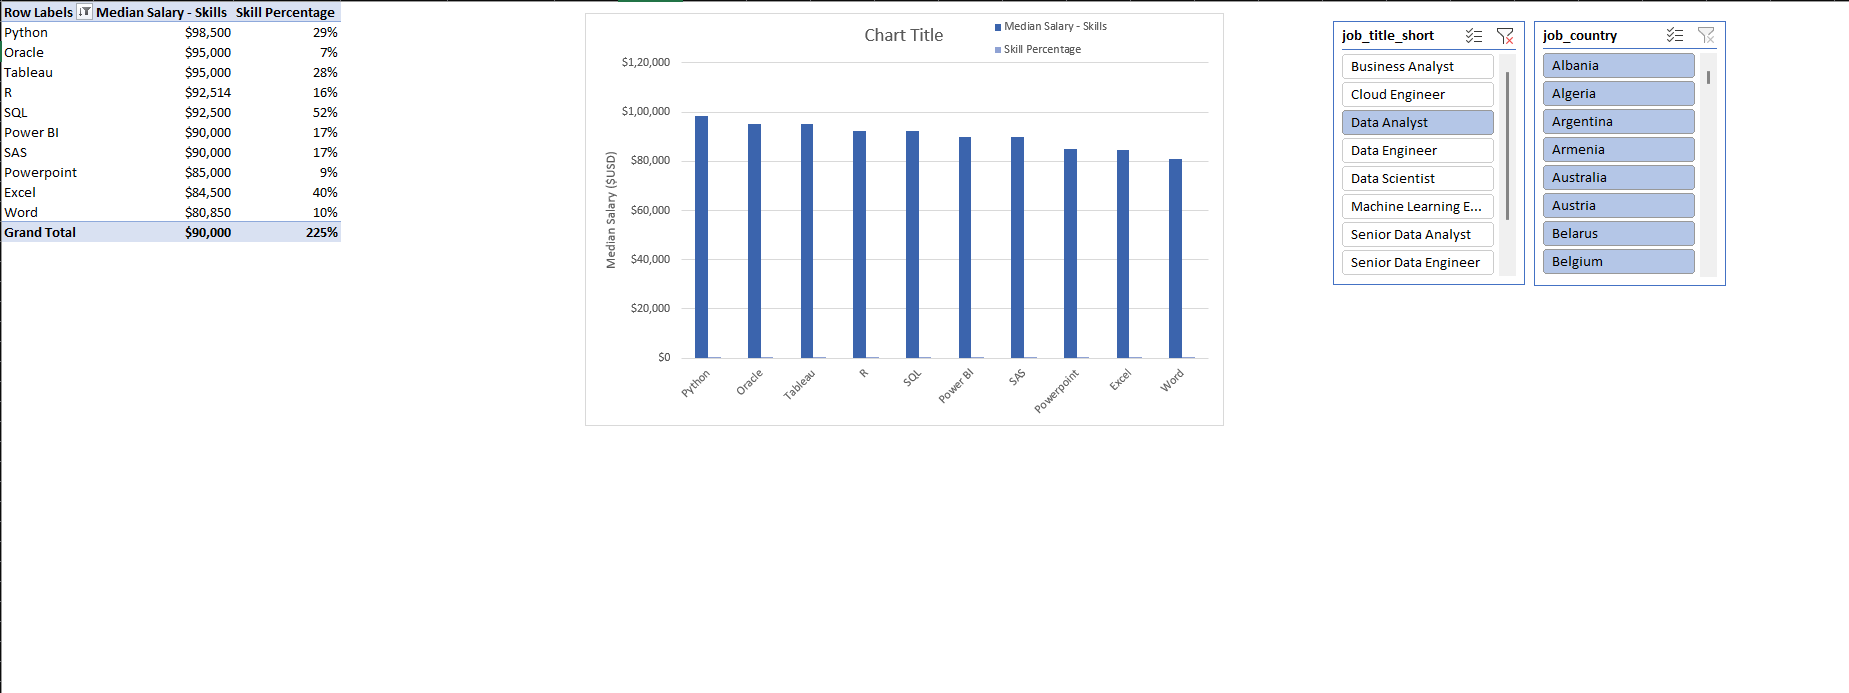
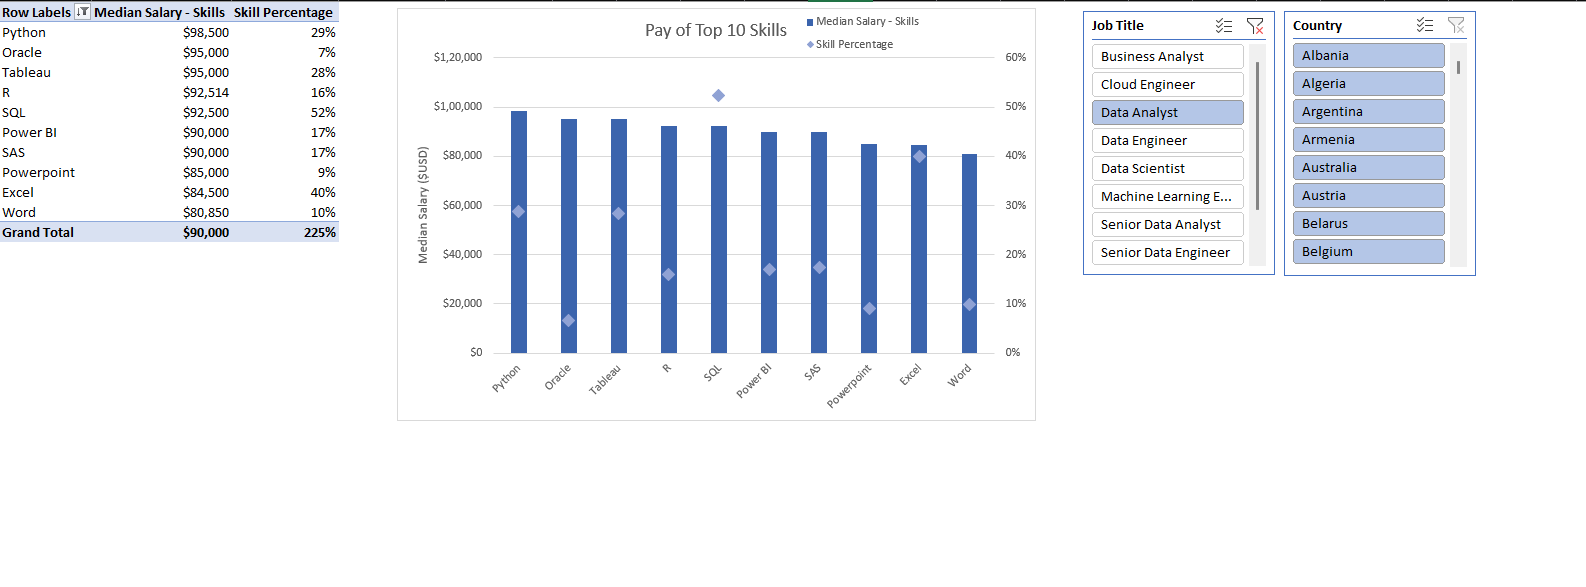
updated files

diff --git a/Analysis/README.md b/Analysis/README.md
@@ -1,0 +1,133 @@
+# Data Science Salary & Skills Analysis (Excel)
+
+An end-to-end Excel analytics project exploring **999+ real-world data science job postings** — built entirely with **Power Query**, **Power Pivot**, and **DAX** to answer the questions every job seeker actually cares about: *where does the money go, and what skills get me there?*
+
+---
+
+## 🎯 Project Goals
+
+Most "what skills should I learn" advice is anecdotal. This project answers it with data, by digging into four questions:
+
+1. How much more do US-based data roles pay compared to the rest of the world?
+2. Which skills are most in-demand for each job title and country?
+3. Which individual skills are associated with the highest pay — and is demand the same thing as value?
+4. Does knowing more skills actually translate into a bigger paycheck?
+
+---
+
+## 🛠️ Tools & Techniques
+
+- **Power Query (M)** — ETL pipeline: cleaning, reshaping, and unpivoting raw job posting data
+- **Power Pivot** — relational data model linking job postings to individual skills
+- **DAX** — custom measures for medians, ratios, and cross-table calculations
+- **CROSSFILTER** — bidirectional filtering to solve a real data-modeling problem (see below)
+- **PivotTables & PivotCharts** — interactive, filterable dashboards
+
+---
+
+## ⚙️ Data Model
+
+![Power Pivot Model](/Assets/Analysis/power_pivot.gif)
+
+Two tables, connected via a **one-to-many relationship on `job_id`**:
+
+### `data_jobs_salary` — 999+ rows × 19 columns
+One row per job posting. Built with Power Query:
+
+- Stripped the `"via "` prefix from job platform names for cleaner labels
+- Extracted the posting month from the full date
+- Converted hourly rates to annual equivalents (`salary_hour_avg × 2080`) so hourly and salaried roles are comparable
+- Added a unique `job_id` (starting at 10001) to act as the relationship key
+- Reordered columns for readability
+
+```
+M Code excerpt:
+#"adjusted hourly salary to yearly" = Table.AddColumn(#"Inserted Month",
+    "adjusted_hourly_salary", each [salary_hour_avg] * 2080, Currency.Type)
+```
+
+### `data_jobs_skills` — exploded skill-level table
+Sourced from `data_jobs_salary`, transformed into **one row per skill per job**:
+
+- Stripped Python-style list formatting (`[`, `]`, `'`) left over from the source data
+- Split the comma-delimited skill list into separate columns
+- **Unpivoted** into a long, one-skill-per-row format — the key step that makes skill-level analysis possible
+- Trimmed whitespace and standardized casing
+- Fixed acronym capitalization (SQL, AWS, Power BI, NoSQL, GCP, SAS) so "sql" and "SQL" aren't treated as different skills
+
+---
+
+## 🧮 DAX Measures
+
+**On `data_jobs_salary`:**
+```dax
+Job Count            = DISTINCTCOUNT(data_jobs_salary[job_id])
+Median Salary        = MEDIAN(data_jobs_salary[salary_year_avg])
+Median Salary US     = CALCULATE([Median Salary], data_jobs_salary[job_country] = "United States")
+Median Salary Non US = CALCULATE([Median Salary], data_jobs_salary[job_country] <> "United States")
+```
+
+**On `data_jobs_skills`:**
+```dax
+Skills Count           = COUNT(data_jobs_skills[job_skills])
+Skills Per Job         = DIVIDE([Skills Count], [Job Count])
+Skill Percentage       = DIVIDE([Skills Count], [Job Count])
+Median Salary - Skills = CALCULATE([Median Salary], CROSSFILTER(data_jobs_salary[job_id], data_jobs_skills[job_id], Both))
+```
+
+> 💡 **The CROSSFILTER problem:** Power Pivot relationships are one-directional by default, so filtering by a *skill* (in the skills table) couldn't naturally filter the *salary* (in the salary table). I solved this by wrapping the median salary calculation in `CROSSFILTER(..., Both)`, enabling bidirectional filtering on demand without permanently changing the relationship — a small detail that made every skill-level salary chart possible.
+
+---
+
+## 📊 Findings
+
+### 1. US vs. Non-US Salary Gap
+
+![Salary Analysis](/Assets/Analysis/salary_analysis.gif)
+
+US-based roles pay significantly more across the board — but the gap **varies a lot by role**. The premium is widest for **Machine Learning Engineers**, who earn **$150K in the US vs. $101K elsewhere — a 49% gap**. Interestingly, **senior roles show the smallest US/non-US divergence**, suggesting that for top-end talent, the market is already global and pay tends to equalize.
+
+### 2. Top Skills by Job Title & Country
+
+![Skill Job Analysis](/Assets/Analysis/skill_job_analysis.gif)
+
+Built a fully filterable dashboard (by job title and country) showing skill demand as a % of postings. For **Data Engineers**, **SQL appears in 70% of postings**, followed by **Python (65%)** and **AWS (43%)** — a clear signal of the core toolkit expected for that role, and a useful filter to check demand in any specific market.
+
+### 3. Pay vs. Demand for Top Skills
+
+![Skill Salary Analysis](/Assets/Analysis/skill_salary_analysis.png)
+
+This is where it gets interesting: **demand and pay aren't the same thing.**
+
+- **Python** has the highest median salary (**$98,500**) among top skills — despite not being the *most* requested.
+- **Excel** shows up in **40% of postings** (one of the highest demand rates) but correlates with the **second-lowest median salary ($84,500)** — largely because it's so heavily tied to lower-paying analyst roles.
+
+**Takeaway:** chasing the *most demanded* skill isn't the same as chasing the *highest-paying* one. Python, Oracle, and Tableau reward depth; Excel and Word reflect breadth but cap out lower.
+
+### 4. Does Skill Count Drive Salary?
+
+![Salary vs Skills](/Assets/Analysis/salary_skills.png)
+
+Yes — and the trend holds across almost every role. **Senior Data Engineers** average **8.1 skills per posting** and earn a median of **$147,500**, while **Business Analysts** average just **3.3 skills** for **$85,000**. The relationship is roughly linear: more required skills generally tracks with higher pay, reinforcing the value of building a broad, technical skill stack.
+
+---
+
+## 🚀 Key Takeaways
+
+- **Location still matters** — but mostly for mid-level roles, not senior ones.
+- **SQL and Python are non-negotiable** for Data Engineers and Data Scientists.
+- **Demand ≠ pay.** A skill being common (like Excel) doesn't mean it's the most valuable.
+- **Stacking skills pays off** — the data shows a clear, near-linear relationship between skills-per-job and median salary.
+
+---
+
+## 📂 Project Files
+
+| File | Description |
+|------|-------------|
+| `analysis.xlsx` | Full workbook — Power Query queries, Power Pivot data model, DAX measures, and all four analysis dashboards |
+| `salary_dashboard.xlsx` | Standalone interactive dashboard view |
+
+---
+
+*Built with Excel, Power Query, Power Pivot, and DAX — no external tools required.*

diff --git a/Dashboard/README.md b/Dashboard/README.md
@@ -1,0 +1,44 @@
+# Data Science Salary Dashboard
+
+An interactive Excel dashboard to explore median data science salaries — filterable by job title, country, and job type.
+
+![Dashboard Preview](/Assets/Dashboard/dashboard.gif)
+
+---
+
+## 📊 Dashboard Features
+
+Three interactive filters drive the entire dashboard simultaneously:
+
+- **Job Title** — 10 roles from Business Analyst to Senior Data Scientist
+- **Country** — 100+ countries from the global dataset
+- **Job Type** — Full-time, Part-time, Contractor, Internship, Temp work
+
+Each selection updates three visuals and three KPI cards instantly:
+
+| Visual | What It Shows |
+|--------|--------------|
+| Horizontal bar chart | Median salary ranked across all job titles |
+| Bing Maps chart | Geographic salary distribution by country |
+| Column chart | Median salary breakdown by employment type |
+| **Median Salary** KPI | Median salary for the selected combination |
+| **Top Job Platform** KPI | Most active hiring platform for the selection |
+| **Job Count** KPI | Number of postings matching the selection |
+
+---
+
+## ⚙️ How It's Built
+
+- **Data Validation dropdowns** — feed the three filter cells from pre-validated lists
+- **Helper sheets** (`title`, `Country`, `job_type`) — pre-calculate medians so the dashboard stays responsive
+- **MEDIAN/IF array formulas** — compute conditional medians based on filter selections
+- **XLOOKUP** — pulls the top platform and job count into the KPI cards
+- **Median over average** — used throughout to avoid distortion from outliers like $525k hedge fund postings
+
+---
+
+## 📂 File
+
+| File | Description |
+|------|-------------|
+| `salary_dashboard.xlsx` | Full workbook including raw data, helper sheets, and dashboard |